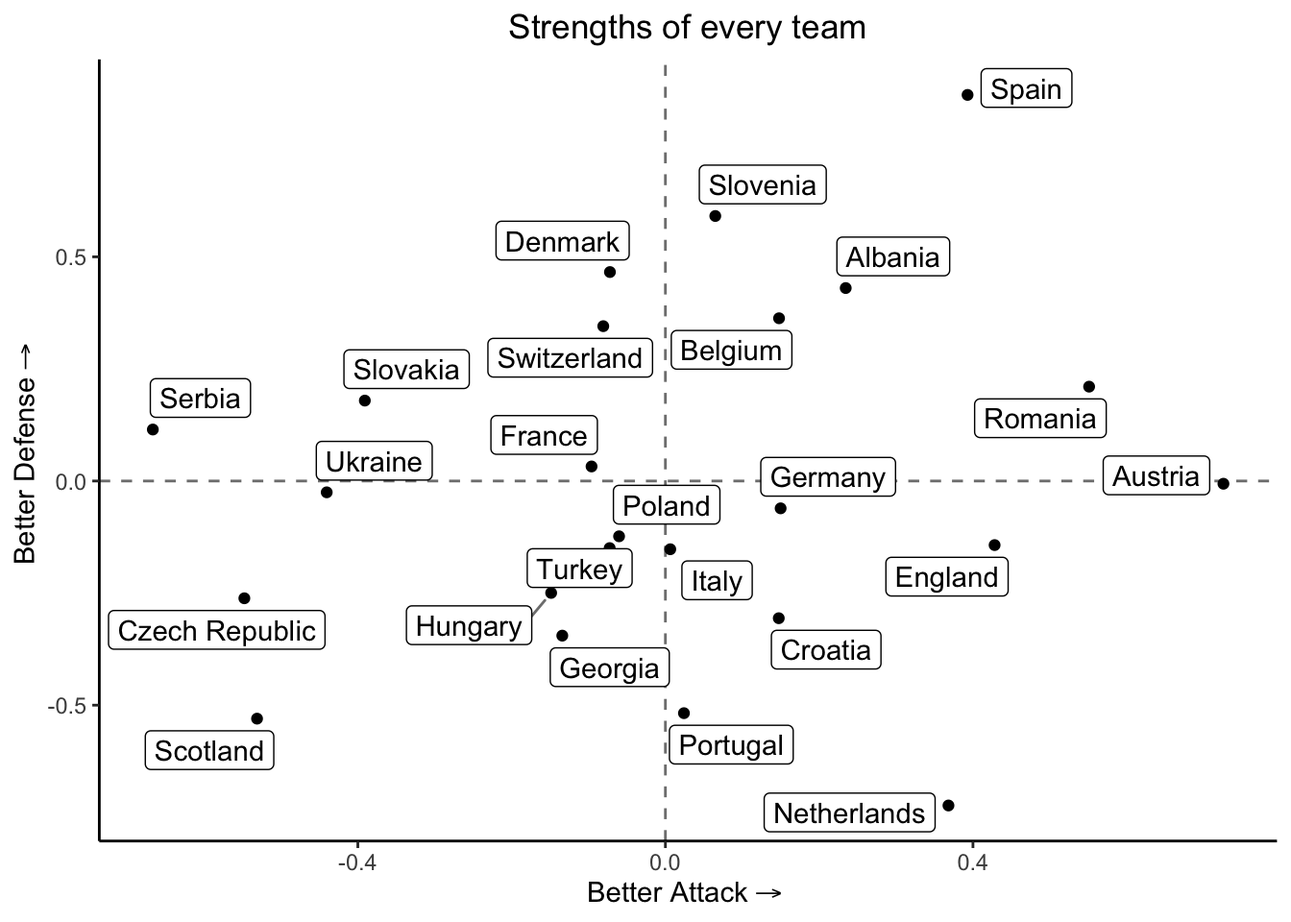
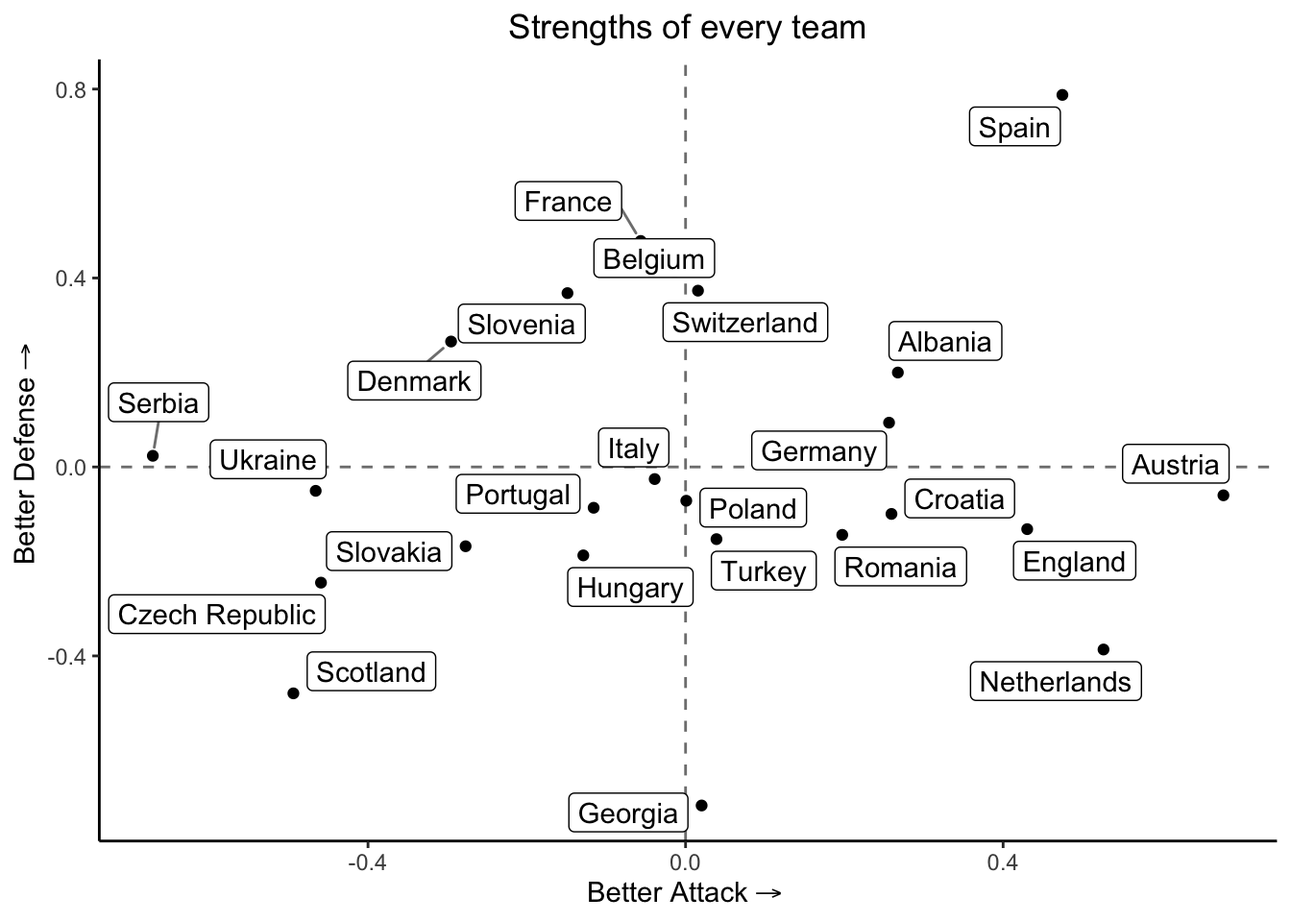
update project euro & copa

diff --git a/docs/projects/euro_2024.html b/docs/projects/euro_2024.html
@@ -57,7 +57,27 @@ div.sourceCode
 @media screen {
 pre > code.sourceCode > span > a:first-child::before { text-decoration: underline; }
 }
-</style>
+/* CSS for citations */
+div.csl-bib-body { }
+div.csl-entry {
+  clear: both;
+  margin-bottom: 0em;
+}
+.hanging-indent div.csl-entry {
+  margin-left:2em;
+  text-indent:-2em;
+}
+div.csl-left-margin {
+  min-width:2em;
+  float:left;
+}
+div.csl-right-inline {
+  margin-left:2em;
+  padding-left:1em;
+}
+div.csl-indent {
+  margin-left: 2em;
+}</style>
 
 
 <script src="../site_libs/quarto-nav/quarto-nav.js"></script>
@@ -170,7 +190,7 @@ pre > code.sourceCode > span > a:first-child::before { text-decoration: underlin
   <li><a href="#filtering-data" id="toc-filtering-data" class="nav-link" data-scroll-target="#filtering-data">Filtering data</a></li>
   </ul></li>
   <li><a href="#fitting-the-model" id="toc-fitting-the-model" class="nav-link" data-scroll-target="#fitting-the-model">Fitting the model</a></li>
-  <li><a href="#estimattion" id="toc-estimattion" class="nav-link" data-scroll-target="#estimattion">Estimattion</a>
+  <li><a href="#estimation" id="toc-estimation" class="nav-link" data-scroll-target="#estimation">Estimation</a>
   <ul class="collapse">
   <li><a href="#euro" id="toc-euro" class="nav-link" data-scroll-target="#euro">Euro</a></li>
   <li><a href="#copa-america" id="toc-copa-america" class="nav-link" data-scroll-target="#copa-america">Copa America</a></li>
@@ -178,8 +198,6 @@ pre > code.sourceCode > span > a:first-child::before { text-decoration: underlin
   <li><a href="#predictions" id="toc-predictions" class="nav-link" data-scroll-target="#predictions">Predictions</a>
   <ul class="collapse">
   <li><a href="#euro-1" id="toc-euro-1" class="nav-link" data-scroll-target="#euro-1">Euro</a></li>
-  <li><a href="#round-of-16" id="toc-round-of-16" class="nav-link" data-scroll-target="#round-of-16">Round of 16</a></li>
-  <li><a href="#quarter-finals" id="toc-quarter-finals" class="nav-link" data-scroll-target="#quarter-finals">Quarter-Finals</a></li>
   <li><a href="#copa-america-1" id="toc-copa-america-1" class="nav-link" data-scroll-target="#copa-america-1">Copa America</a></li>
   </ul></li>
   </ul>
@@ -224,7 +242,7 @@ pre > code.sourceCode > span > a:first-child::before { text-decoration: underlin
 </header>
 
 
-<p>In this project, I will propose a model for the Euro &amp; Copa America - 2024 scores.</p>
+<p>In this project, I will propose a model for predicting the Euro &amp; Copa America - 2024 scores based on the model presented in <span class="citation" data-cites="florez2024">(<a href="#ref-florez2024" role="doc-biblioref">Florez, Guindani, and Vannucci 2024</a>)</span>.</p>
 <section id="packages" class="level2">
 <h2 class="anchored" data-anchor-id="packages">Packages</h2>
 <p>I will use a Bayesian model, so we need the following libraries</p>
@@ -253,7 +271,7 @@ pre > code.sourceCode > span > a:first-child::before { text-decoration: underlin
 <div class="cell">
 <div class="sourceCode cell-code" id="cb4"><pre class="sourceCode r code-with-copy"><code class="sourceCode r"><span id="cb4-1"><a href="#cb4-1" aria-hidden="true" tabindex="-1"></a>data <span class="ot">&lt;-</span> <span class="fu">read_csv</span>(<span class="fu">url</span>(urlfile), <span class="at">show_col_types =</span> <span class="cn">FALSE</span>)</span></code><button title="Copy to Clipboard" class="code-copy-button"><i class="bi"></i></button></pre></div>
 </div>
-<p>The proposed model is based on the teams’ strengths attacking and defending. Therefore, we will consider only the games played during 2024. An improved model would be one with dynamic strengths. But that is a future project.</p>
+<p>The proposed model is based on the teams’ strengths attacking and defending. To train the model, we used the scores of games played since season 2023-2024.</p>
 <div class="cell">
 <div class="sourceCode cell-code" id="cb5"><pre class="sourceCode r code-with-copy"><code class="sourceCode r"><span id="cb5-1"><a href="#cb5-1" aria-hidden="true" tabindex="-1"></a>euro_2024 <span class="ot">=</span> <span class="fu">c</span>(<span class="st">'Albania'</span>,<span class="st">'Austria'</span>,<span class="st">'Belgium'</span>,<span class="st">'Croatia'</span>,<span class="st">'Czech Republic'</span>,<span class="st">'Denmark'</span>,<span class="st">'England'</span>,<span class="st">'France'</span>,<span class="st">'Georgia'</span>,<span class="st">'Germany'</span>,<span class="st">'Hungary'</span>,<span class="st">'Italy'</span>,<span class="st">'Netherlands'</span>,<span class="st">'Poland'</span>,<span class="st">'Portugal'</span>,<span class="st">'Romania'</span>,<span class="st">'Scotland'</span>,<span class="st">'Serbia'</span>,<span class="st">'Slovakia'</span>,<span class="st">'Slovenia'</span>,<span class="st">'Spain'</span>,<span class="st">'Switzerland'</span>,<span class="st">'Turkey'</span>,<span class="st">'Ukraine'</span>)</span>
 <span id="cb5-2"><a href="#cb5-2" aria-hidden="true" tabindex="-1"></a></span>
@@ -294,7 +312,7 @@ pre > code.sourceCode > span > a:first-child::before { text-decoration: underlin
 <div class="sourceCode cell-code" id="cb8"><pre class="sourceCode r code-with-copy"><code class="sourceCode r"><span id="cb8-1"><a href="#cb8-1" aria-hidden="true" tabindex="-1"></a>scores <span class="sc">%&gt;%</span> </span>
 <span id="cb8-2"><a href="#cb8-2" aria-hidden="true" tabindex="-1"></a>  <span class="fu">filter</span>(home_team <span class="sc">==</span> <span class="st">"Colombia"</span> <span class="sc">|</span> away_team <span class="sc">==</span> <span class="st">"Colombia"</span>)</span></code><button title="Copy to Clipboard" class="code-copy-button"><i class="bi"></i></button></pre></div>
 <div class="cell-output cell-output-stdout">
-<pre><code># A tibble: 14 × 11
+<pre><code># A tibble: 15 × 11
    date       home_team away_team home_score away_score tournament city  country
    &lt;date&gt;     &lt;chr&gt;     &lt;chr&gt;          &lt;dbl&gt;      &lt;dbl&gt; &lt;chr&gt;      &lt;chr&gt; &lt;chr&gt;  
  1 2023-09-07 Colombia  Venezuela          1          0 FIFA Worl… Barr… Colomb…
@@ -310,7 +328,8 @@ pre > code.sourceCode > span > a:first-child::before { text-decoration: underlin
 11 2024-06-28 Colombia  Costa Ri…          3          0 Copa Amér… Glen… United…
 12 2024-07-02 Brazil    Colombia           1          1 Copa Amér… Sant… United…
 13 2024-07-06 Colombia  Panama             5          0 Copa Amér… Glen… United…
-14 2024-07-10 Uruguay   Colombia          NA         NA Copa Amér… Char… United…
+14 2024-07-10 Uruguay   Colombia           0          1 Copa Amér… Char… United…
+15 2024-07-14 Argentina Colombia           1          0 Copa Amér… Miam… United…
 # ℹ 3 more variables: neutral &lt;lgl&gt;, id &lt;int&gt;, cup &lt;chr&gt;</code></pre>
 </div>
 </div>
@@ -347,10 +366,10 @@ pre > code.sourceCode > span > a:first-child::before { text-decoration: underlin
 <span id="cb12-6"><a href="#cb12-6" aria-hidden="true" tabindex="-1"></a>  <span class="fu">slice_min</span>(diff_date) <span class="sc">%&gt;%</span> </span>
 <span id="cb12-7"><a href="#cb12-7" aria-hidden="true" tabindex="-1"></a>  <span class="fu">select</span>(id, score, team, adversary, condition, <span class="at">date_game =</span> date.x, <span class="at">ranking_adv =</span> ranking, <span class="at">date_rank =</span> date.y, cup)</span></code><button title="Copy to Clipboard" class="code-copy-button"><i class="bi"></i></button></pre></div>
 </div>
-<p>We are separating the data for both Euro and Copa America. In the case of the Euro, the eighth-finals started on June 29th, we will train the data before that data and leave the rest for testing. In the case of Copa America, I will train it before the last round of groups started.</p>
+<p>We are separating the data for both Euro and Copa America. For both cases, we will use as test data the games played after the quarter-finals. i.e, we will finish predicting the results of the semi-finals and the finals.</p>
 <div class="cell">
-<div class="sourceCode cell-code" id="cb13"><pre class="sourceCode r code-with-copy"><code class="sourceCode r"><span id="cb13-1"><a href="#cb13-1" aria-hidden="true" tabindex="-1"></a>date_euro <span class="ot">=</span> <span class="st">"2024-06-28"</span></span>
-<span id="cb13-2"><a href="#cb13-2" aria-hidden="true" tabindex="-1"></a>date_ca <span class="ot">=</span> <span class="st">"2024-06-29"</span></span>
+<div class="sourceCode cell-code" id="cb13"><pre class="sourceCode r code-with-copy"><code class="sourceCode r"><span id="cb13-1"><a href="#cb13-1" aria-hidden="true" tabindex="-1"></a>date_euro <span class="ot">=</span> <span class="st">"2024-07-09"</span></span>
+<span id="cb13-2"><a href="#cb13-2" aria-hidden="true" tabindex="-1"></a>date_ca <span class="ot">=</span> <span class="st">"2024-07-09"</span></span>
 <span id="cb13-3"><a href="#cb13-3" aria-hidden="true" tabindex="-1"></a></span>
 <span id="cb13-4"><a href="#cb13-4" aria-hidden="true" tabindex="-1"></a>train_euro <span class="ot">&lt;-</span> scores_rank <span class="sc">%&gt;%</span> </span>
 <span id="cb13-5"><a href="#cb13-5" aria-hidden="true" tabindex="-1"></a>  <span class="fu">filter</span>(date_game <span class="sc">&lt;</span> date_euro, cup <span class="sc">==</span> <span class="st">"Euro"</span>)</span>
@@ -368,7 +387,7 @@ pre > code.sourceCode > span > a:first-child::before { text-decoration: underlin
 </section>
 <section id="fitting-the-model" class="level2">
 <h2 class="anchored" data-anchor-id="fitting-the-model">Fitting the model</h2>
-<p>To fit the model I would consider the scores Neg. Binomial distributed for simplicity, one better option is the Conway-Maxwell-Poisson. However, we will use a simple model for computational reasons.</p>
+<p>To fit the model I would consider the scores are distributed as Poisson for simplicity, one better option is the Conway-Maxwell-Poisson as shown in <span class="citation" data-cites="florez2024">(<a href="#ref-florez2024" role="doc-biblioref">Florez, Guindani, and Vannucci 2024</a>)</span>. However, we will use a simple model for computational reasons as we constantly update the model.</p>
 <div class="cell">
 <div class="sourceCode cell-code" id="cb14"><pre class="sourceCode r code-with-copy"><code class="sourceCode r"><span id="cb14-1"><a href="#cb14-1" aria-hidden="true" tabindex="-1"></a>model_euro <span class="ot">&lt;-</span> <span class="fu">stan_glm</span>(score <span class="sc">~</span> <span class="dv">1</span> <span class="sc">+</span> team <span class="sc">+</span> adversary <span class="sc">+</span> condition <span class="sc">+</span> ranking_adv, <span class="at">data =</span> train_euro, <span class="at">family =</span> poisson, <span class="at">iter =</span> <span class="dv">5000</span>, <span class="at">contrasts =</span> <span class="fu">list</span>(<span class="at">team =</span> <span class="st">"contr.sum"</span>, <span class="at">adversary =</span> <span class="st">"contr.sum"</span>))</span></code><button title="Copy to Clipboard" class="code-copy-button"><i class="bi"></i></button></pre></div>
 </div>
@@ -376,8 +395,8 @@ pre > code.sourceCode > span > a:first-child::before { text-decoration: underlin
 <div class="sourceCode cell-code" id="cb15"><pre class="sourceCode r code-with-copy"><code class="sourceCode r"><span id="cb15-1"><a href="#cb15-1" aria-hidden="true" tabindex="-1"></a>model_america <span class="ot">&lt;-</span> <span class="fu">stan_glm</span>(score <span class="sc">~</span> <span class="dv">1</span> <span class="sc">+</span> team <span class="sc">+</span> adversary <span class="sc">+</span> condition <span class="sc">+</span> ranking_adv, <span class="at">data =</span> train_america, <span class="at">family =</span> poisson, <span class="at">iter =</span> <span class="dv">5000</span>, <span class="at">contrasts =</span> <span class="fu">list</span>(<span class="at">team =</span> <span class="st">"contr.sum"</span>, <span class="at">adversary =</span> <span class="st">"contr.sum"</span>))</span></code><button title="Copy to Clipboard" class="code-copy-button"><i class="bi"></i></button></pre></div>
 </div>
 </section>
-<section id="estimattion" class="level2">
-<h2 class="anchored" data-anchor-id="estimattion">Estimattion</h2>
+<section id="estimation" class="level2">
+<h2 class="anchored" data-anchor-id="estimation">Estimation</h2>
 <section id="euro" class="level3">
 <h3 class="anchored" data-anchor-id="euro">Euro</h3>
 <div class="cell">
@@ -456,7 +475,7 @@ pre > code.sourceCode > span > a:first-child::before { text-decoration: underlin
 <h2 class="anchored" data-anchor-id="predictions">Predictions</h2>
 <section id="euro-1" class="level3">
 <h3 class="anchored" data-anchor-id="euro-1">Euro</h3>
-<p>Now, we predict the scores of the future games:</p>
+<p>Now, we predict the scores of the future games, i.e, the semifinals and the final.</p>
 <div class="cell">
 <div class="sourceCode cell-code" id="cb20"><pre class="sourceCode r code-with-copy"><code class="sourceCode r"><span id="cb20-1"><a href="#cb20-1" aria-hidden="true" tabindex="-1"></a>test_pred <span class="ot">&lt;-</span> test_euro <span class="sc">%&gt;%</span> </span>
 <span id="cb20-2"><a href="#cb20-2" aria-hidden="true" tabindex="-1"></a>  <span class="fu">select</span>(id, team, adversary, condition, ranking_adv)</span>
@@ -474,118 +493,128 @@ pre > code.sourceCode > span > a:first-child::before { text-decoration: underlin
 <span id="cb20-14"><a href="#cb20-14" aria-hidden="true" tabindex="-1"></a>            <span class="st">"Team 2"</span> <span class="ot">=</span> <span class="fu">last</span>(team),</span>
 <span id="cb20-15"><a href="#cb20-15" aria-hidden="true" tabindex="-1"></a>            <span class="st">"Exp. Goals 2"</span> <span class="ot">=</span> <span class="fu">last</span>(goals)) </span></code><button title="Copy to Clipboard" class="code-copy-button"><i class="bi"></i></button></pre></div>
 </div>
-<p>Therefore the predictions of future games are:</p>
-</section>
-<section id="round-of-16" class="level3">
-<h3 class="anchored" data-anchor-id="round-of-16">Round of 16</h3>
+<p>The predictions of future games are:</p>
 <div class="cell">
 <div class="sourceCode cell-code" id="cb21"><pre class="sourceCode r code-with-copy"><code class="sourceCode r"><span id="cb21-1"><a href="#cb21-1" aria-hidden="true" tabindex="-1"></a>test_pred <span class="sc">%&gt;%</span> </span>
 <span id="cb21-2"><a href="#cb21-2" aria-hidden="true" tabindex="-1"></a>  <span class="fu">print</span>(<span class="at">n =</span> <span class="fl">1e3</span>)</span></code><button title="Copy to Clipboard" class="code-copy-button"><i class="bi"></i></button></pre></div>
 <div class="cell-output cell-output-stdout">
-<pre><code># A tibble: 14 × 5
-      id `Team 1`    `Exp. Goals` `Team 2`    `Exp. Goals 2`
-   &lt;int&gt; &lt;chr&gt;              &lt;dbl&gt; &lt;chr&gt;                &lt;dbl&gt;
- 1    91 Italy              0.597 Switzerland          0.783
- 2    92 Denmark            1.12  Germany              0.988
- 3    93 England            1.49  Slovakia             0.578
- 4    94 Georgia            0.298 Spain                3.10 
- 5    95 Belgium            0.780 France               0.454
- 6    96 Portugal           0.761 Slovenia             1.31 
- 7    97 Netherlands        1.38  Romania              2.63 
- 8    98 Austria            2.42  Turkey               0.818
- 9    99 Germany            0.595 Spain                1.61 
-10   100 France             1.11  Portugal             0.700
-11   101 England            0.904 Switzerland          0.8  
-12   102 Netherlands        1.75  Turkey               1.33 
-13   103 France             0.320 Spain                0.976
-14   104 England            2.22  Netherlands          1.22 </code></pre>
+<pre><code># A tibble: 3 × 5
+     id `Team 1` `Exp. Goals` `Team 2`    `Exp. Goals 2`
+  &lt;int&gt; &lt;chr&gt;           &lt;dbl&gt; &lt;chr&gt;                &lt;dbl&gt;
+1   103 France          0.381 Spain                0.848
+2   104 England         1.89  Netherlands          1.63 
+3   105 England         0.619 Spain                1.53 </code></pre>
 </div>
 </div>
-<p>According to this, the quarter-finals will be Switzerland vs England, Austria vs Netherlands, France vs Slovenia, Germany vs Spain.</p>
-</section>
-<section id="quarter-finals" class="level3">
-<h3 class="anchored" data-anchor-id="quarter-finals">Quarter-Finals</h3>
-<p>To update</p>
+<p>Particullarly, the distribution of the prediction of the score for the final looks as shown below.</p>
+<div class="cell">
+<div class="sourceCode cell-code" id="cb23"><pre class="sourceCode r code-with-copy"><code class="sourceCode r"><span id="cb23-1"><a href="#cb23-1" aria-hidden="true" tabindex="-1"></a>results_game <span class="ot">&lt;-</span> <span class="fu">tibble</span>(<span class="st">"England"</span> <span class="ot">=</span> predictions[,<span class="dv">5</span>], <span class="st">"Spain"</span> <span class="ot">=</span> predictions[,<span class="dv">6</span>])</span>
+<span id="cb23-2"><a href="#cb23-2" aria-hidden="true" tabindex="-1"></a></span>
+<span id="cb23-3"><a href="#cb23-3" aria-hidden="true" tabindex="-1"></a>df_count <span class="ot">&lt;-</span> results_game <span class="sc">%&gt;%</span> </span>
+<span id="cb23-4"><a href="#cb23-4" aria-hidden="true" tabindex="-1"></a>  <span class="fu">group_by</span>(England, Spain) <span class="sc">%&gt;%</span> </span>
+<span id="cb23-5"><a href="#cb23-5" aria-hidden="true" tabindex="-1"></a>  <span class="fu">summarise</span>(<span class="at">count =</span> <span class="fu">n</span>(), <span class="at">.groups =</span> <span class="st">"keep"</span>) <span class="sc">%&gt;%</span> </span>
+<span id="cb23-6"><a href="#cb23-6" aria-hidden="true" tabindex="-1"></a>  <span class="fu">ungroup</span>()</span>
+<span id="cb23-7"><a href="#cb23-7" aria-hidden="true" tabindex="-1"></a></span>
+<span id="cb23-8"><a href="#cb23-8" aria-hidden="true" tabindex="-1"></a>total_combinations <span class="ot">&lt;-</span> <span class="fu">nrow</span>(results_game)</span>
+<span id="cb23-9"><a href="#cb23-9" aria-hidden="true" tabindex="-1"></a></span>
+<span id="cb23-10"><a href="#cb23-10" aria-hidden="true" tabindex="-1"></a>df_count <span class="ot">&lt;-</span> df_count <span class="sc">%&gt;%</span> </span>
+<span id="cb23-11"><a href="#cb23-11" aria-hidden="true" tabindex="-1"></a>    <span class="fu">mutate</span>(<span class="at">proportion =</span> count<span class="sc">/</span>total_combinations)</span>
+<span id="cb23-12"><a href="#cb23-12" aria-hidden="true" tabindex="-1"></a>  </span>
+<span id="cb23-13"><a href="#cb23-13" aria-hidden="true" tabindex="-1"></a><span class="fu">ggplot</span>(df_count, <span class="fu">aes</span>(<span class="at">x =</span> England, <span class="at">y =</span> Spain, <span class="at">fill =</span> proportion)) <span class="sc">+</span></span>
+<span id="cb23-14"><a href="#cb23-14" aria-hidden="true" tabindex="-1"></a>  <span class="fu">geom_tile</span>() <span class="sc">+</span> </span>
+<span id="cb23-15"><a href="#cb23-15" aria-hidden="true" tabindex="-1"></a>  <span class="fu">scale_fill_gradient</span>(<span class="at">low =</span> <span class="st">"white"</span>, <span class="at">high =</span> <span class="st">"blue"</span>) <span class="sc">+</span> </span>
+<span id="cb23-16"><a href="#cb23-16" aria-hidden="true" tabindex="-1"></a>  <span class="fu">labs</span>(<span class="at">title =</span> <span class="st">"Heatmap of Goals Scored by the two teams"</span>,</span>
+<span id="cb23-17"><a href="#cb23-17" aria-hidden="true" tabindex="-1"></a>       <span class="at">x =</span> <span class="st">"England"</span>, </span>
+<span id="cb23-18"><a href="#cb23-18" aria-hidden="true" tabindex="-1"></a>       <span class="at">y =</span> <span class="st">"Spain"</span>,</span>
+<span id="cb23-19"><a href="#cb23-19" aria-hidden="true" tabindex="-1"></a>       <span class="at">fill =</span> <span class="st">"Probability"</span>) <span class="sc">+</span> </span>
+<span id="cb23-20"><a href="#cb23-20" aria-hidden="true" tabindex="-1"></a>  <span class="fu">theme_minimal</span>()</span></code><button title="Copy to Clipboard" class="code-copy-button"><i class="bi"></i></button></pre></div>
+<div class="cell-output-display">
+<div>
+<figure class="figure">
+<p><img src="euro_2024_files/figure-html/unnamed-chunk-20-1.png" class="img-fluid figure-img" width="672"></p>
+</figure>
+</div>
+</div>
+</div>
+<p>According to this, it is likely that the final will be Spain vs.&nbsp;England. <strong>Spain is expected to be the champion, with a predicted score of 2-0.</strong></p>
 </section>
 <section id="copa-america-1" class="level3">
 <h3 class="anchored" data-anchor-id="copa-america-1">Copa America</h3>
 <p>Similarly, we can generate the predictions for the last round of the games in Copa América</p>
 <div class="cell">
-<div class="sourceCode cell-code" id="cb23"><pre class="sourceCode r code-with-copy"><code class="sourceCode r"><span id="cb23-1"><a href="#cb23-1" aria-hidden="true" tabindex="-1"></a>test_pred <span class="ot">&lt;-</span> test_america <span class="sc">%&gt;%</span> </span>
-<span id="cb23-2"><a href="#cb23-2" aria-hidden="true" tabindex="-1"></a>  <span class="fu">select</span>(id, team, adversary, condition, ranking_adv)</span>
-<span id="cb23-3"><a href="#cb23-3" aria-hidden="true" tabindex="-1"></a></span>
-<span id="cb23-4"><a href="#cb23-4" aria-hidden="true" tabindex="-1"></a>predictions <span class="ot">&lt;-</span> <span class="fu">posterior_predict</span>(model_america, <span class="at">newdata =</span> test_pred) </span>
-<span id="cb23-5"><a href="#cb23-5" aria-hidden="true" tabindex="-1"></a></span>
-<span id="cb23-6"><a href="#cb23-6" aria-hidden="true" tabindex="-1"></a>mean_goals <span class="ot">&lt;-</span> <span class="fu">apply</span>(predictions, <span class="dv">2</span>, mean)</span>
-<span id="cb23-7"><a href="#cb23-7" aria-hidden="true" tabindex="-1"></a></span>
-<span id="cb23-8"><a href="#cb23-8" aria-hidden="true" tabindex="-1"></a>test_pred <span class="ot">&lt;-</span> test_pred <span class="sc">%&gt;%</span> </span>
-<span id="cb23-9"><a href="#cb23-9" aria-hidden="true" tabindex="-1"></a>  <span class="fu">ungroup</span>() <span class="sc">%&gt;%</span> </span>
-<span id="cb23-10"><a href="#cb23-10" aria-hidden="true" tabindex="-1"></a>  <span class="fu">mutate</span>(<span class="at">goals =</span> mean_goals) <span class="sc">%&gt;%</span> </span>
-<span id="cb23-11"><a href="#cb23-11" aria-hidden="true" tabindex="-1"></a>  <span class="fu">group_by</span>(id) <span class="sc">%&gt;%</span> </span>
-<span id="cb23-12"><a href="#cb23-12" aria-hidden="true" tabindex="-1"></a>  <span class="fu">summarise</span>(<span class="st">"Team 1"</span> <span class="ot">=</span> <span class="fu">first</span>(team),</span>
-<span id="cb23-13"><a href="#cb23-13" aria-hidden="true" tabindex="-1"></a>            <span class="st">"Exp. Goals"</span> <span class="ot">=</span> <span class="fu">first</span>(goals),</span>
-<span id="cb23-14"><a href="#cb23-14" aria-hidden="true" tabindex="-1"></a>            <span class="st">"Team 2"</span> <span class="ot">=</span> <span class="fu">last</span>(team),</span>
-<span id="cb23-15"><a href="#cb23-15" aria-hidden="true" tabindex="-1"></a>            <span class="st">"Exp. Goals 2"</span> <span class="ot">=</span> <span class="fu">last</span>(goals)) </span></code><button title="Copy to Clipboard" class="code-copy-button"><i class="bi"></i></button></pre></div>
+<div class="sourceCode cell-code" id="cb24"><pre class="sourceCode r code-with-copy"><code class="sourceCode r"><span id="cb24-1"><a href="#cb24-1" aria-hidden="true" tabindex="-1"></a>test_pred <span class="ot">&lt;-</span> test_america <span class="sc">%&gt;%</span> </span>
+<span id="cb24-2"><a href="#cb24-2" aria-hidden="true" tabindex="-1"></a>  <span class="fu">select</span>(id, team, adversary, condition, ranking_adv)</span>
+<span id="cb24-3"><a href="#cb24-3" aria-hidden="true" tabindex="-1"></a></span>
+<span id="cb24-4"><a href="#cb24-4" aria-hidden="true" tabindex="-1"></a>predictions <span class="ot">&lt;-</span> <span class="fu">posterior_predict</span>(model_america, <span class="at">newdata =</span> test_pred) </span>
+<span id="cb24-5"><a href="#cb24-5" aria-hidden="true" tabindex="-1"></a></span>
+<span id="cb24-6"><a href="#cb24-6" aria-hidden="true" tabindex="-1"></a>mean_goals <span class="ot">&lt;-</span> <span class="fu">apply</span>(predictions, <span class="dv">2</span>, mean)</span>
+<span id="cb24-7"><a href="#cb24-7" aria-hidden="true" tabindex="-1"></a></span>
+<span id="cb24-8"><a href="#cb24-8" aria-hidden="true" tabindex="-1"></a>test_pred <span class="ot">&lt;-</span> test_pred <span class="sc">%&gt;%</span> </span>
+<span id="cb24-9"><a href="#cb24-9" aria-hidden="true" tabindex="-1"></a>  <span class="fu">ungroup</span>() <span class="sc">%&gt;%</span> </span>
+<span id="cb24-10"><a href="#cb24-10" aria-hidden="true" tabindex="-1"></a>  <span class="fu">mutate</span>(<span class="at">goals =</span> mean_goals) <span class="sc">%&gt;%</span> </span>
+<span id="cb24-11"><a href="#cb24-11" aria-hidden="true" tabindex="-1"></a>  <span class="fu">group_by</span>(id) <span class="sc">%&gt;%</span> </span>
+<span id="cb24-12"><a href="#cb24-12" aria-hidden="true" tabindex="-1"></a>  <span class="fu">summarise</span>(<span class="st">"Team 1"</span> <span class="ot">=</span> <span class="fu">first</span>(team),</span>
+<span id="cb24-13"><a href="#cb24-13" aria-hidden="true" tabindex="-1"></a>            <span class="st">"Exp. Goals"</span> <span class="ot">=</span> <span class="fu">first</span>(goals),</span>
+<span id="cb24-14"><a href="#cb24-14" aria-hidden="true" tabindex="-1"></a>            <span class="st">"Team 2"</span> <span class="ot">=</span> <span class="fu">last</span>(team),</span>
+<span id="cb24-15"><a href="#cb24-15" aria-hidden="true" tabindex="-1"></a>            <span class="st">"Exp. Goals 2"</span> <span class="ot">=</span> <span class="fu">last</span>(goals)) </span></code><button title="Copy to Clipboard" class="code-copy-button"><i class="bi"></i></button></pre></div>
 </div>
 <div class="cell">
-<div class="sourceCode cell-code" id="cb24"><pre class="sourceCode r code-with-copy"><code class="sourceCode r"><span id="cb24-1"><a href="#cb24-1" aria-hidden="true" tabindex="-1"></a>test_pred <span class="sc">%&gt;%</span> </span>
-<span id="cb24-2"><a href="#cb24-2" aria-hidden="true" tabindex="-1"></a>  <span class="fu">print</span>(<span class="at">n =</span> <span class="fl">1e3</span>)</span></code><button title="Copy to Clipboard" class="code-copy-button"><i class="bi"></i></button></pre></div>
+<div class="sourceCode cell-code" id="cb25"><pre class="sourceCode r code-with-copy"><code class="sourceCode r"><span id="cb25-1"><a href="#cb25-1" aria-hidden="true" tabindex="-1"></a>test_pred <span class="sc">%&gt;%</span> </span>
+<span id="cb25-2"><a href="#cb25-2" aria-hidden="true" tabindex="-1"></a>  <span class="fu">print</span>(<span class="at">n =</span> <span class="fl">1e3</span>)</span></code><button title="Copy to Clipboard" class="code-copy-button"><i class="bi"></i></button></pre></div>
 <div class="cell-output cell-output-stdout">
-<pre><code># A tibble: 14 × 5
-      id `Team 1`      `Exp. Goals` `Team 2`      `Exp. Goals 2`
-   &lt;int&gt; &lt;chr&gt;                &lt;dbl&gt; &lt;chr&gt;                  &lt;dbl&gt;
- 1    84 Argentina            1.41  Peru                   0.041
- 2    85 Canada               0.901 Chile                  1.04 
- 3    86 Ecuador              1.46  Mexico                 1.09 
- 4    87 Jamaica              0.377 Venezuela              2.18 
- 5    88 United States        0.811 United States          0.811
- 6    89 Bolivia              0.816 Panama                 1.23 
- 7    90 Brazil               1.32  Colombia               1.74 
- 8    91 Costa Rica           0.488 Paraguay               0.603
- 9    92 Argentina            1.27  Ecuador                0.419
-10    93 Canada               0.613 Venezuela              1.82 
-11    94 Brazil               1.06  Uruguay                2.22 
-12    95 Colombia             2.71  Panama                 0.546
-13    96 Argentina            2.13  Canada                 0.412
-14    97 Colombia             1.06  Uruguay                1.64 </code></pre>
+<pre><code># A tibble: 4 × 5
+     id `Team 1`  `Exp. Goals` `Team 2` `Exp. Goals 2`
+  &lt;int&gt; &lt;chr&gt;            &lt;dbl&gt; &lt;chr&gt;             &lt;dbl&gt;
+1    96 Argentina        1.90  Canada            0.414
+2    97 Colombia         0.866 Uruguay           1.34 
+3    98 Canada           0.502 Uruguay           2.54 
+4    99 Argentina        1.02  Colombia          0.765</code></pre>
 </div>
 </div>
-<p>If we want to see the distribution of a particular game, for example the game 92, Argentina vs Ecuador, it will be something like</p>
+<p>In this case, Argentina is expected to easily defeat Canada, and Uruguay will likely beat Colombia. However, Colombia won its game 1-0, so the final will be Argentina vs.&nbsp;Colombia, while the 3rd and 4th place game will be played between Canada and Uruguay.</p>
+<p><strong>The final is anticipated to be a close match, with the most likely result being 0-0, as indicated below. However, Argentina is expected to have a slightly higher probability of scoring more goals than Colombia.</strong></p>
 <div class="cell">
-<div class="sourceCode cell-code" id="cb26"><pre class="sourceCode r code-with-copy"><code class="sourceCode r"><span id="cb26-1"><a href="#cb26-1" aria-hidden="true" tabindex="-1"></a>results_game <span class="ot">&lt;-</span> <span class="fu">tibble</span>(<span class="st">"Colombia"</span> <span class="ot">=</span> predictions[,<span class="dv">26</span>], <span class="st">"Uruguay"</span> <span class="ot">=</span> predictions[,<span class="dv">27</span>])</span>
-<span id="cb26-2"><a href="#cb26-2" aria-hidden="true" tabindex="-1"></a></span>
-<span id="cb26-3"><a href="#cb26-3" aria-hidden="true" tabindex="-1"></a>df_count <span class="ot">&lt;-</span> results_game <span class="sc">%&gt;%</span> </span>
-<span id="cb26-4"><a href="#cb26-4" aria-hidden="true" tabindex="-1"></a>  <span class="fu">group_by</span>(Colombia, Uruguay) <span class="sc">%&gt;%</span> </span>
-<span id="cb26-5"><a href="#cb26-5" aria-hidden="true" tabindex="-1"></a>  <span class="fu">summarise</span>(<span class="at">count =</span> <span class="fu">n</span>(), <span class="at">.groups =</span> <span class="st">"keep"</span>) <span class="sc">%&gt;%</span> </span>
-<span id="cb26-6"><a href="#cb26-6" aria-hidden="true" tabindex="-1"></a>  <span class="fu">ungroup</span>()</span>
-<span id="cb26-7"><a href="#cb26-7" aria-hidden="true" tabindex="-1"></a></span>
-<span id="cb26-8"><a href="#cb26-8" aria-hidden="true" tabindex="-1"></a>total_combinations <span class="ot">&lt;-</span> <span class="fu">nrow</span>(results_game)</span>
-<span id="cb26-9"><a href="#cb26-9" aria-hidden="true" tabindex="-1"></a></span>
-<span id="cb26-10"><a href="#cb26-10" aria-hidden="true" tabindex="-1"></a>df_count <span class="ot">&lt;-</span> df_count <span class="sc">%&gt;%</span> </span>
-<span id="cb26-11"><a href="#cb26-11" aria-hidden="true" tabindex="-1"></a>    <span class="fu">mutate</span>(<span class="at">proportion =</span> count<span class="sc">/</span>total_combinations)</span>
-<span id="cb26-12"><a href="#cb26-12" aria-hidden="true" tabindex="-1"></a>  </span>
-<span id="cb26-13"><a href="#cb26-13" aria-hidden="true" tabindex="-1"></a><span class="fu">ggplot</span>(df_count, <span class="fu">aes</span>(<span class="at">x =</span> Colombia, <span class="at">y =</span> Uruguay, <span class="at">fill =</span> proportion)) <span class="sc">+</span></span>
-<span id="cb26-14"><a href="#cb26-14" aria-hidden="true" tabindex="-1"></a>  <span class="fu">geom_tile</span>() <span class="sc">+</span> </span>
-<span id="cb26-15"><a href="#cb26-15" aria-hidden="true" tabindex="-1"></a>  <span class="fu">scale_fill_gradient</span>(<span class="at">low =</span> <span class="st">"white"</span>, <span class="at">high =</span> <span class="st">"blue"</span>) <span class="sc">+</span> </span>
-<span id="cb26-16"><a href="#cb26-16" aria-hidden="true" tabindex="-1"></a>  <span class="fu">labs</span>(<span class="at">title =</span> <span class="st">"Heatmap of Goals Scored by the two teams"</span>,</span>
-<span id="cb26-17"><a href="#cb26-17" aria-hidden="true" tabindex="-1"></a>       <span class="at">x =</span> <span class="st">"Colombia"</span>, </span>
-<span id="cb26-18"><a href="#cb26-18" aria-hidden="true" tabindex="-1"></a>       <span class="at">y =</span> <span class="st">"Uruguay"</span>,</span>
-<span id="cb26-19"><a href="#cb26-19" aria-hidden="true" tabindex="-1"></a>       <span class="at">fill =</span> <span class="st">"Probability"</span>) <span class="sc">+</span> </span>
-<span id="cb26-20"><a href="#cb26-20" aria-hidden="true" tabindex="-1"></a>  <span class="fu">theme_minimal</span>()</span></code><button title="Copy to Clipboard" class="code-copy-button"><i class="bi"></i></button></pre></div>
+<div class="sourceCode cell-code" id="cb27"><pre class="sourceCode r code-with-copy"><code class="sourceCode r"><span id="cb27-1"><a href="#cb27-1" aria-hidden="true" tabindex="-1"></a>results_game <span class="ot">&lt;-</span> <span class="fu">tibble</span>(<span class="st">"Argentina"</span> <span class="ot">=</span> predictions[,<span class="dv">7</span>], <span class="st">"Colombia"</span> <span class="ot">=</span> predictions[,<span class="dv">8</span>])</span>
+<span id="cb27-2"><a href="#cb27-2" aria-hidden="true" tabindex="-1"></a></span>
+<span id="cb27-3"><a href="#cb27-3" aria-hidden="true" tabindex="-1"></a>df_count <span class="ot">&lt;-</span> results_game <span class="sc">%&gt;%</span> </span>
+<span id="cb27-4"><a href="#cb27-4" aria-hidden="true" tabindex="-1"></a>  <span class="fu">group_by</span>(Argentina, Colombia) <span class="sc">%&gt;%</span> </span>
+<span id="cb27-5"><a href="#cb27-5" aria-hidden="true" tabindex="-1"></a>  <span class="fu">summarise</span>(<span class="at">count =</span> <span class="fu">n</span>(), <span class="at">.groups =</span> <span class="st">"keep"</span>) <span class="sc">%&gt;%</span> </span>
+<span id="cb27-6"><a href="#cb27-6" aria-hidden="true" tabindex="-1"></a>  <span class="fu">ungroup</span>()</span>
+<span id="cb27-7"><a href="#cb27-7" aria-hidden="true" tabindex="-1"></a></span>
+<span id="cb27-8"><a href="#cb27-8" aria-hidden="true" tabindex="-1"></a>total_combinations <span class="ot">&lt;-</span> <span class="fu">nrow</span>(results_game)</span>
+<span id="cb27-9"><a href="#cb27-9" aria-hidden="true" tabindex="-1"></a></span>
+<span id="cb27-10"><a href="#cb27-10" aria-hidden="true" tabindex="-1"></a>df_count <span class="ot">&lt;-</span> df_count <span class="sc">%&gt;%</span> </span>
+<span id="cb27-11"><a href="#cb27-11" aria-hidden="true" tabindex="-1"></a>    <span class="fu">mutate</span>(<span class="at">proportion =</span> count<span class="sc">/</span>total_combinations)</span>
+<span id="cb27-12"><a href="#cb27-12" aria-hidden="true" tabindex="-1"></a>  </span>
+<span id="cb27-13"><a href="#cb27-13" aria-hidden="true" tabindex="-1"></a><span class="fu">ggplot</span>(df_count, <span class="fu">aes</span>(<span class="at">x =</span> Argentina, <span class="at">y =</span> Colombia, <span class="at">fill =</span> proportion)) <span class="sc">+</span></span>
+<span id="cb27-14"><a href="#cb27-14" aria-hidden="true" tabindex="-1"></a>  <span class="fu">geom_tile</span>() <span class="sc">+</span> </span>
+<span id="cb27-15"><a href="#cb27-15" aria-hidden="true" tabindex="-1"></a>  <span class="fu">scale_fill_gradient</span>(<span class="at">low =</span> <span class="st">"white"</span>, <span class="at">high =</span> <span class="st">"blue"</span>) <span class="sc">+</span> </span>
+<span id="cb27-16"><a href="#cb27-16" aria-hidden="true" tabindex="-1"></a>  <span class="fu">labs</span>(<span class="at">title =</span> <span class="st">"Heatmap of Goals Scored by the two teams"</span>,</span>
+<span id="cb27-17"><a href="#cb27-17" aria-hidden="true" tabindex="-1"></a>       <span class="at">x =</span> <span class="st">"Argentina"</span>, </span>
+<span id="cb27-18"><a href="#cb27-18" aria-hidden="true" tabindex="-1"></a>       <span class="at">y =</span> <span class="st">"Colombia"</span>,</span>
+<span id="cb27-19"><a href="#cb27-19" aria-hidden="true" tabindex="-1"></a>       <span class="at">fill =</span> <span class="st">"Probability"</span>) <span class="sc">+</span> </span>
+<span id="cb27-20"><a href="#cb27-20" aria-hidden="true" tabindex="-1"></a>  <span class="fu">theme_minimal</span>()</span></code><button title="Copy to Clipboard" class="code-copy-button"><i class="bi"></i></button></pre></div>
 <div class="cell-output-display">
 <div>
 <figure class="figure">
-<p><img src="euro_2024_files/figure-html/unnamed-chunk-22-1.png" class="img-fluid figure-img" width="672"></p>
+<p><img src="euro_2024_files/figure-html/unnamed-chunk-23-1.png" class="img-fluid figure-img" width="672"></p>
 </figure>
 </div>
 </div>
 </div>
+<p>As we saw, the model accurately predicted the scores and captured the strengths of each team. It also produced reasonable and accurate results for the final games based on the quarter-final outcomes. <strong>Spain defeated England 2-1</strong>, while the match between <strong>Argentina and Colombia ended 0-0</strong>, with Argentina scoring a goal in extra time.</p>
+<p>For future models, incorporating dynamic strengths could improve accuracy.</p>
+
 
 
 </section>
 </section>
 
-</main> <!-- /main -->
+<div id="quarto-appendix" class="default"><section class="quarto-appendix-contents" role="doc-bibliography" id="quarto-bibliography"><h2 class="anchored quarto-appendix-heading">References</h2><div id="refs" class="references csl-bib-body hanging-indent" data-entry-spacing="0" role="list">
+<div id="ref-florez2024" class="csl-entry" role="listitem">
+Florez, Mauro, Michele Guindani, and Marina Vannucci. 2024. <span>“Bayesian Bivariate Conway<span></span>Maxwell<span></span>Poisson Regression Model for Correlated Count Data in Sports.”</span> <em>Journal of Quantitative Analysis in Sports</em> 0 (0). <a href="https://doi.org/10.1515/jqas-2024-0072">https://doi.org/10.1515/jqas-2024-0072</a>.
+</div>
+</div></section></div></main> <!-- /main -->
 <script id="quarto-html-after-body" type="application/javascript">
 window.document.addEventListener("DOMContentLoaded", function (event) {
   const toggleBodyColorMode = (bsSheetEl) => {

diff --git a/docs/projects.html b/docs/projects.html
@@ -218,7 +218,7 @@ window.Quarto = {
 <h3 class="anchored" data-anchor-id="projects">Projects</h3>
 <div id="listing-sample-listings" class="quarto-listing quarto-listing-container-grid">
 <div class="list grid quarto-listing-cols-3">
-<div class="g-col-1" data-index="0" data-listing-date-sort="1719723600000" data-listing-file-modified-sort="1720560227225" data-listing-date-modified-sort="NaN" data-listing-reading-time-sort="7" data-listing-word-count-sort="1360">
+<div class="g-col-1" data-index="0" data-listing-date-sort="1719723600000" data-listing-file-modified-sort="1723496536065" data-listing-date-modified-sort="NaN" data-listing-reading-time-sort="8" data-listing-word-count-sort="1597">
 <a href="./projects/euro_2024.html" class="quarto-grid-link">
 <div class="quarto-grid-item card h-100 card-left">
 <p class="card-img-top"><img src="projects/euro_2024_files/figure-html/unnamed-chunk-15-1.png" style="height: 150px;"  class="thumbnail-image card-img"/></p>
